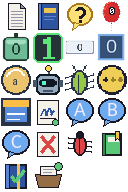
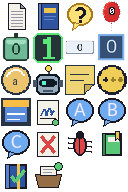
feat(tcc): a Maria Lucia joga post-its no TCC, e nao bugs
Claude-Session: https://claude.ai/code/session_017nXv4spnQCBE1hzbe6xUTw

Changed region(s): [[0.5, 0.3125, 0.75, 0.5]]

diff --git a/Ferramentas/gerar_hugo.py b/Ferramentas/gerar_hugo.py
@@ -124,7 +124,7 @@ MATERIAS = [
     ("Luizinho",   "DPIBHLuizinhoMemoria",     1),   # a celula viva do heap
     ("Vladimir",   "DPIBHVladimirSimbolo",     0),   # o simbolo a
     ("Julio",      "DPIBHJulioToken",          8),   # o agente
-    ("MariaLucia", "DPIBHMariaLuciaRequisito", 12),  # o bug
+    ("MariaLucia", "DPIBHMariaLuciaRequisito", 0),   # o post-it (o bug era menos a cara dela)
     ("Lucas",      "DPIBHLucasCodigo",         8),   # a promessa
     ("Vitor",      "DPIBHVitorTarefa",         20),  # o pacote
 ]
